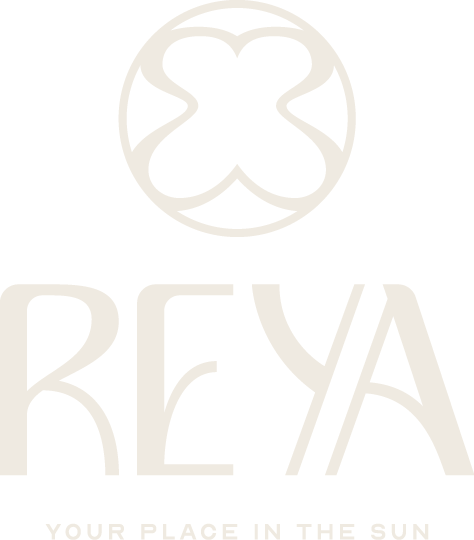
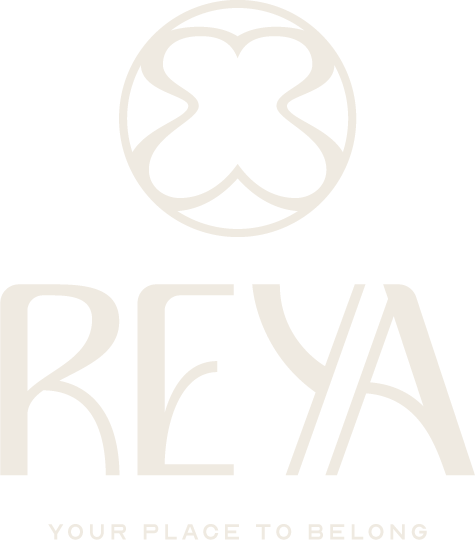
Swap in the new footer emblem with the updated slogan
The uploaded lockup (476x546, "Your Place to Belong") is encoded
losslessly to WebP in place of reya-emblem-footer.webp, which also
serves the coming-soon page. Raw PNG removed per the gitignore policy;
intrinsic dimensions updated in both usages.

Claude-Session: https://claude.ai/code/session_01EUHrrP25MrxC15PtaCgshc

diff --git a/components/Sections.tsx b/components/Sections.tsx
@@ -587,8 +587,8 @@ export function Footer() {
         <Image
           src="/uploads/reya-emblem-footer.webp"
           alt="Reya"
-          width={474}
-          height={540}
+          width={476}
+          height={546}
           style={{ height: 215, width: 'auto' }}
         />
         <div style={{ display: 'flex', gap: 22, justifyContent: 'center' }}>

diff --git a/components/ComingSoon.tsx b/components/ComingSoon.tsx
@@ -53,8 +53,8 @@ export default function ComingSoon() {
         <Image
           src="/uploads/reya-emblem-footer.webp"
           alt="Reya — Your Place to Belong"
-          width={474}
-          height={540}
+          width={476}
+          height={546}
           priority
           style={{ height: 'clamp(190px,30vh,280px)', width: 'auto' }}
         />
